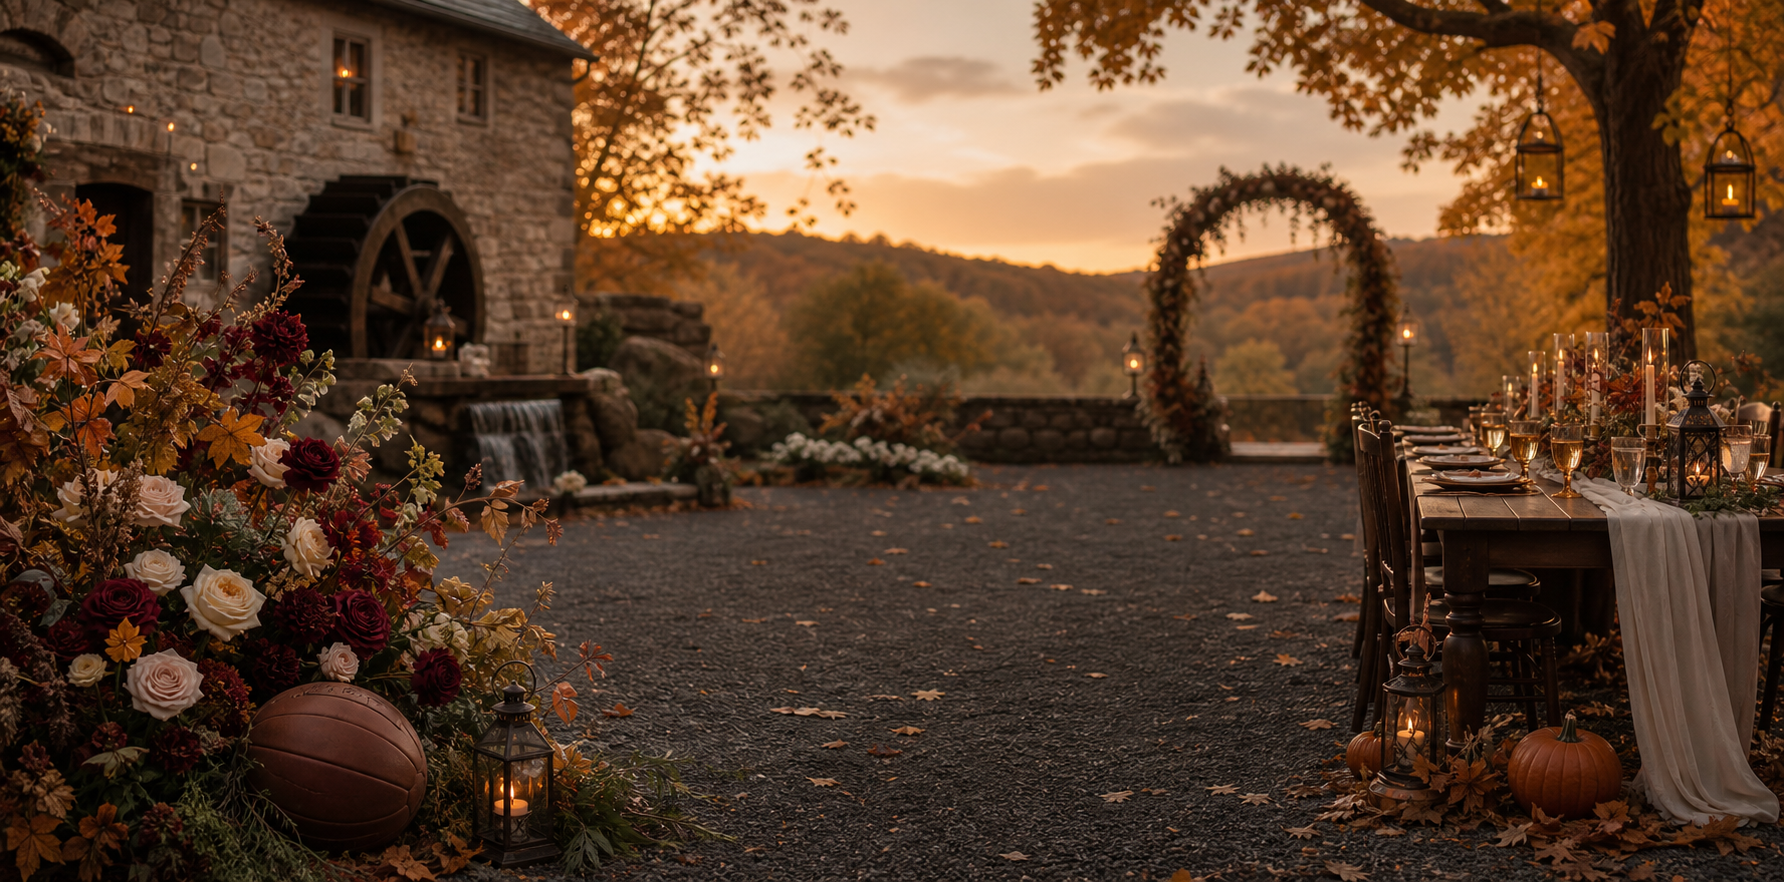
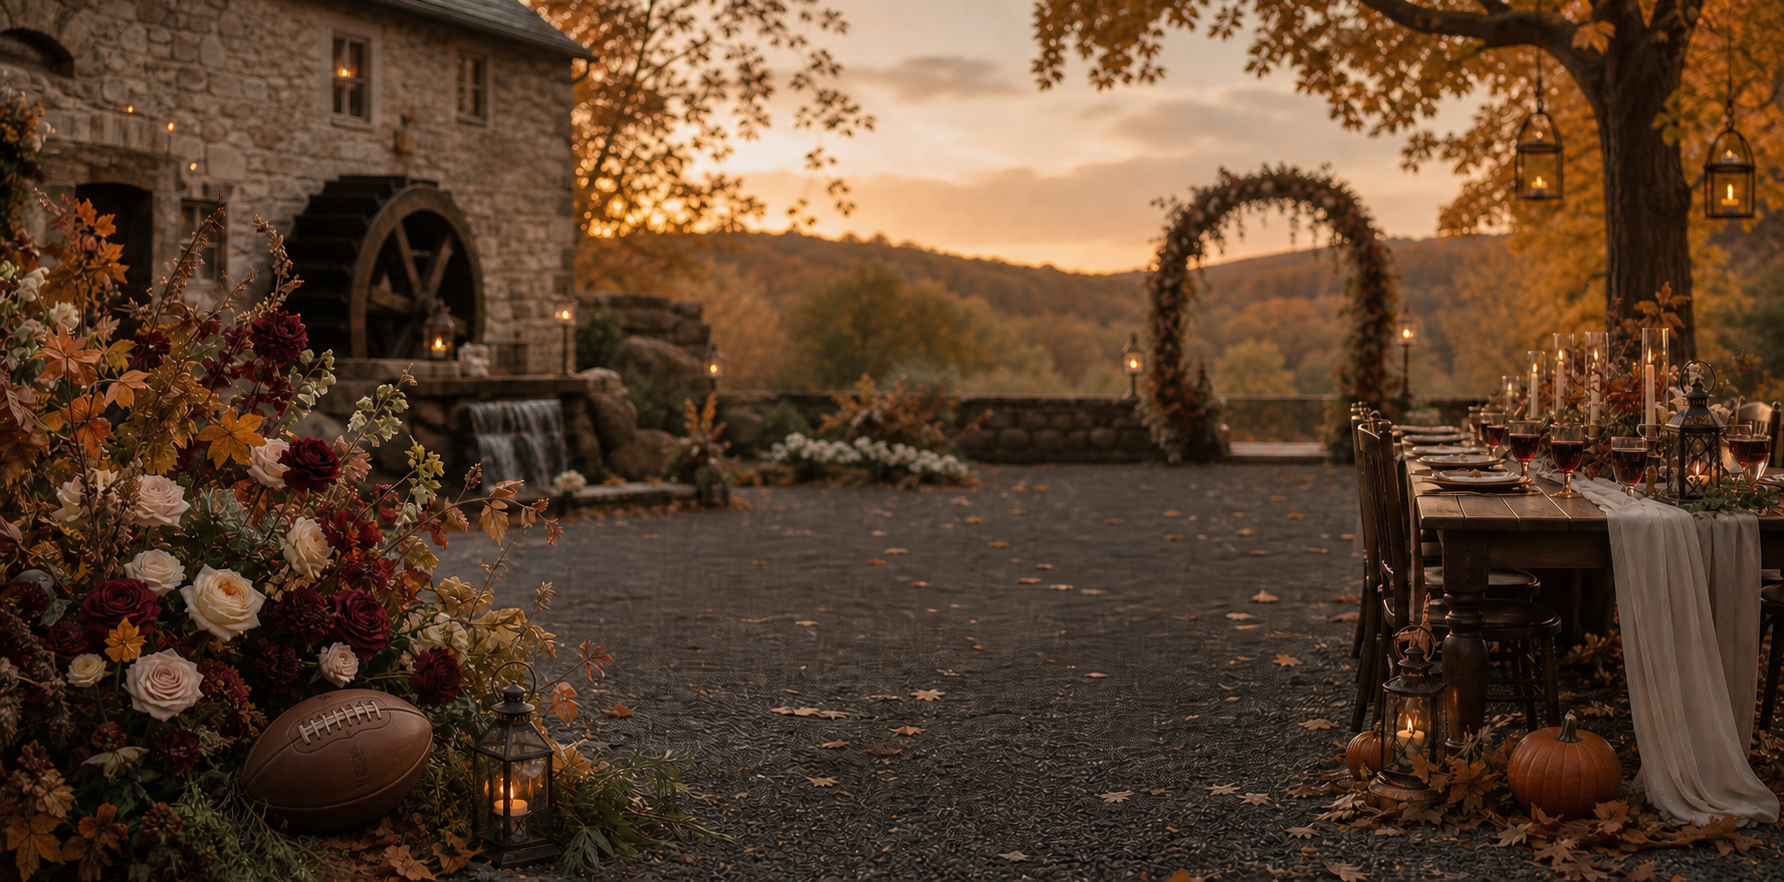
quitar apartados niños y halloween, edit textos

diff --git a/scripts/main.js b/scripts/main.js
@@ -1,4 +1,4 @@
-const weddingDate = new Date('2026-10-31T12:30:00+01:00');
+const weddingDate = new Date('2026-10-31T13:00:00+01:00');
 
 const translations = {
   es: {
@@ -12,7 +12,7 @@ const translations = {
       rsvp: 'RSVP',
     },
     hero: {
-      title: 'LÉNA & NICOLE',
+      title: 'LENA & NICOLE',
       quote: 'Hay encuentros que parecen casualidad, hasta que descubres que eran serendipia.',
       cta: 'Confirmar asistencia',
     },
@@ -24,6 +24,9 @@ const translations = {
         'Lo que comenzó como un encuentro casual se convirtió en una historia llena de viajes, aventuras, risas y complicidad.',
       paragraphThree:
         'Dos años después queremos celebrar con vosotros el comienzo de nuestro próximo capítulo.',
+      full: 'Sábado, 31 de octubre de 2026',
+      rugby:
+        'Ese día jugamos el partido más bonito: todas las personas que queremos en el mismo equipo.',
     },
     countdown: {
       title: 'Cuenta atrás',
@@ -37,13 +40,10 @@ const translations = {
       dateTitle: 'Fecha',
       dateText: 'Sábado, 31 de octubre de 2026.',
       timeTitle: 'Hora',
-      timeText: 'La ceremonia empezará a las 12:30. Recomendamos llegar con un poco de margen.',
+      timeText: 'La ceremonia empezará a las 13:00. Recomendamos llegar con un poco de margen.',
       dressTitle: 'Dress code',
-      dressText: 'Elegante y cómodo. Si te apetece, puedes añadir un guiño otoñal o burdeos.',
-      halloweenText:
-        'Por la noche habrá Halloween After Party. El disfraz es opcional, la actitud no.',
-      kidsTitle: 'Niños',
-      kidsText: 'Estamos preparando los detalles finales. Actualizaremos esta sección más adelante.',
+      dressText:
+        'Elegante y cómodo. Si te apetece, puedes traer disfraz de Halloween para la fiesta final.',
       giftTitle: 'Regalo',
       giftText:
         'Lo importante es que vengas. Si más adelante añadimos alguna indicación, aparecerá aquí.',
@@ -93,7 +93,7 @@ const translations = {
       button: 'Abrir formulario',
     },
     footer: {
-      names: 'Léna & Nicole',
+      names: 'Lena & Nicole',
       date: '31 de octubre de 2026',
     },
   },
@@ -122,6 +122,9 @@ const translations = {
         "Ce qui a commencé comme une rencontre par hasard est devenu une histoire pleine de voyages, d'aventures, de rires et de complicité.",
       paragraphThree:
         'Deux ans plus tard, nous voulons célébrer avec vous le début de notre prochain chapitre.',
+      full: 'Samedi 31 octobre 2026',
+      rugby:
+        "Ce jour-là, nous jouons le plus beau match : toutes les personnes que nous aimons dans la même équipe.",
     },
     countdown: {
       title: 'Compte à rebours',
@@ -136,14 +139,10 @@ const translations = {
       dateText: 'Samedi 31 octobre 2026.',
       timeTitle: 'Heure',
       timeText:
-        "La cérémonie commencera à 12h30. Nous vous conseillons d'arriver un peu en avance.",
+        "La cérémonie commencera à 13h00. Nous vous conseillons d'arriver un peu en avance.",
       dressTitle: 'Dress code',
-      dressText: "Élégant et confortable. Un clin d'oeil automnal ou bordeaux est le bienvenu.",
-      halloweenText:
-        "Le soir, place à la Halloween After Party. Le déguisement est optionnel, l'envie de danser beaucoup moins.",
-      kidsTitle: 'Enfants',
-      kidsText:
-        'Nous préparons encore les derniers détails. Cette section sera mise à jour plus tard.',
+      dressText:
+        "Élégant et confortable. Si vous en avez envie, vous pouvez apporter un déguisement d'Halloween pour la fête de fin de soirée.",
       giftTitle: 'Cadeau',
       giftText:
         "Le plus important est votre présence. Si nous ajoutons une indication, elle apparaîtra ici.",

diff --git a/index.html b/index.html
@@ -106,25 +106,13 @@
           <article class="faq-item">
             <h3 data-i18n="faq.timeTitle">Hora</h3>
             <p data-i18n="faq.timeText">
-              La ceremonia empezará a las 12:30. Recomendamos llegar con un poco de margen.
+              La ceremonia empezará a las 13:00. Recomendamos llegar con un poco de margen.
             </p>
           </article>
           <article class="faq-item">
             <h3 data-i18n="faq.dressTitle">Dress code</h3>
             <p data-i18n="faq.dressText">
-              Elegante y cómodo. Si te apetece, puedes añadir un guiño otoñal o burdeos.
-            </p>
-          </article>
-          <article class="faq-item">
-            <h3>Halloween</h3>
-            <p data-i18n="faq.halloweenText">
-              Por la noche habrá Halloween After Party. El disfraz es opcional, la actitud no.
-            </p>
-          </article>
-          <article class="faq-item">
-            <h3 data-i18n="faq.kidsTitle">Niños</h3>
-            <p data-i18n="faq.kidsText">
-              Estamos preparando los detalles finales. Actualizaremos esta sección más adelante.
+              Elegante y cómodo. Si te apetece, puedes traer disfraz de Halloween para la fiesta final.
             </p>
           </article>
           <article class="faq-item">
@@ -302,7 +290,7 @@
     </main>
 
     <footer class="footer">
-      <p class="footer-names" data-i18n="footer.names">Léna & Nicole</p>
+      <p class="footer-names" data-i18n="footer.names">Lena & Nicole</p>
       <div class="footer-separator" aria-hidden="true">
         <span></span>
         <svg

diff --git a/styles/global.css b/styles/global.css
@@ -639,7 +639,7 @@ p {
   }
 
   .faq-grid {
-    grid-template-columns: repeat(3, 1fr);
+    grid-template-columns: repeat(2, minmax(0, 1fr));
   }
 
   .location-content {